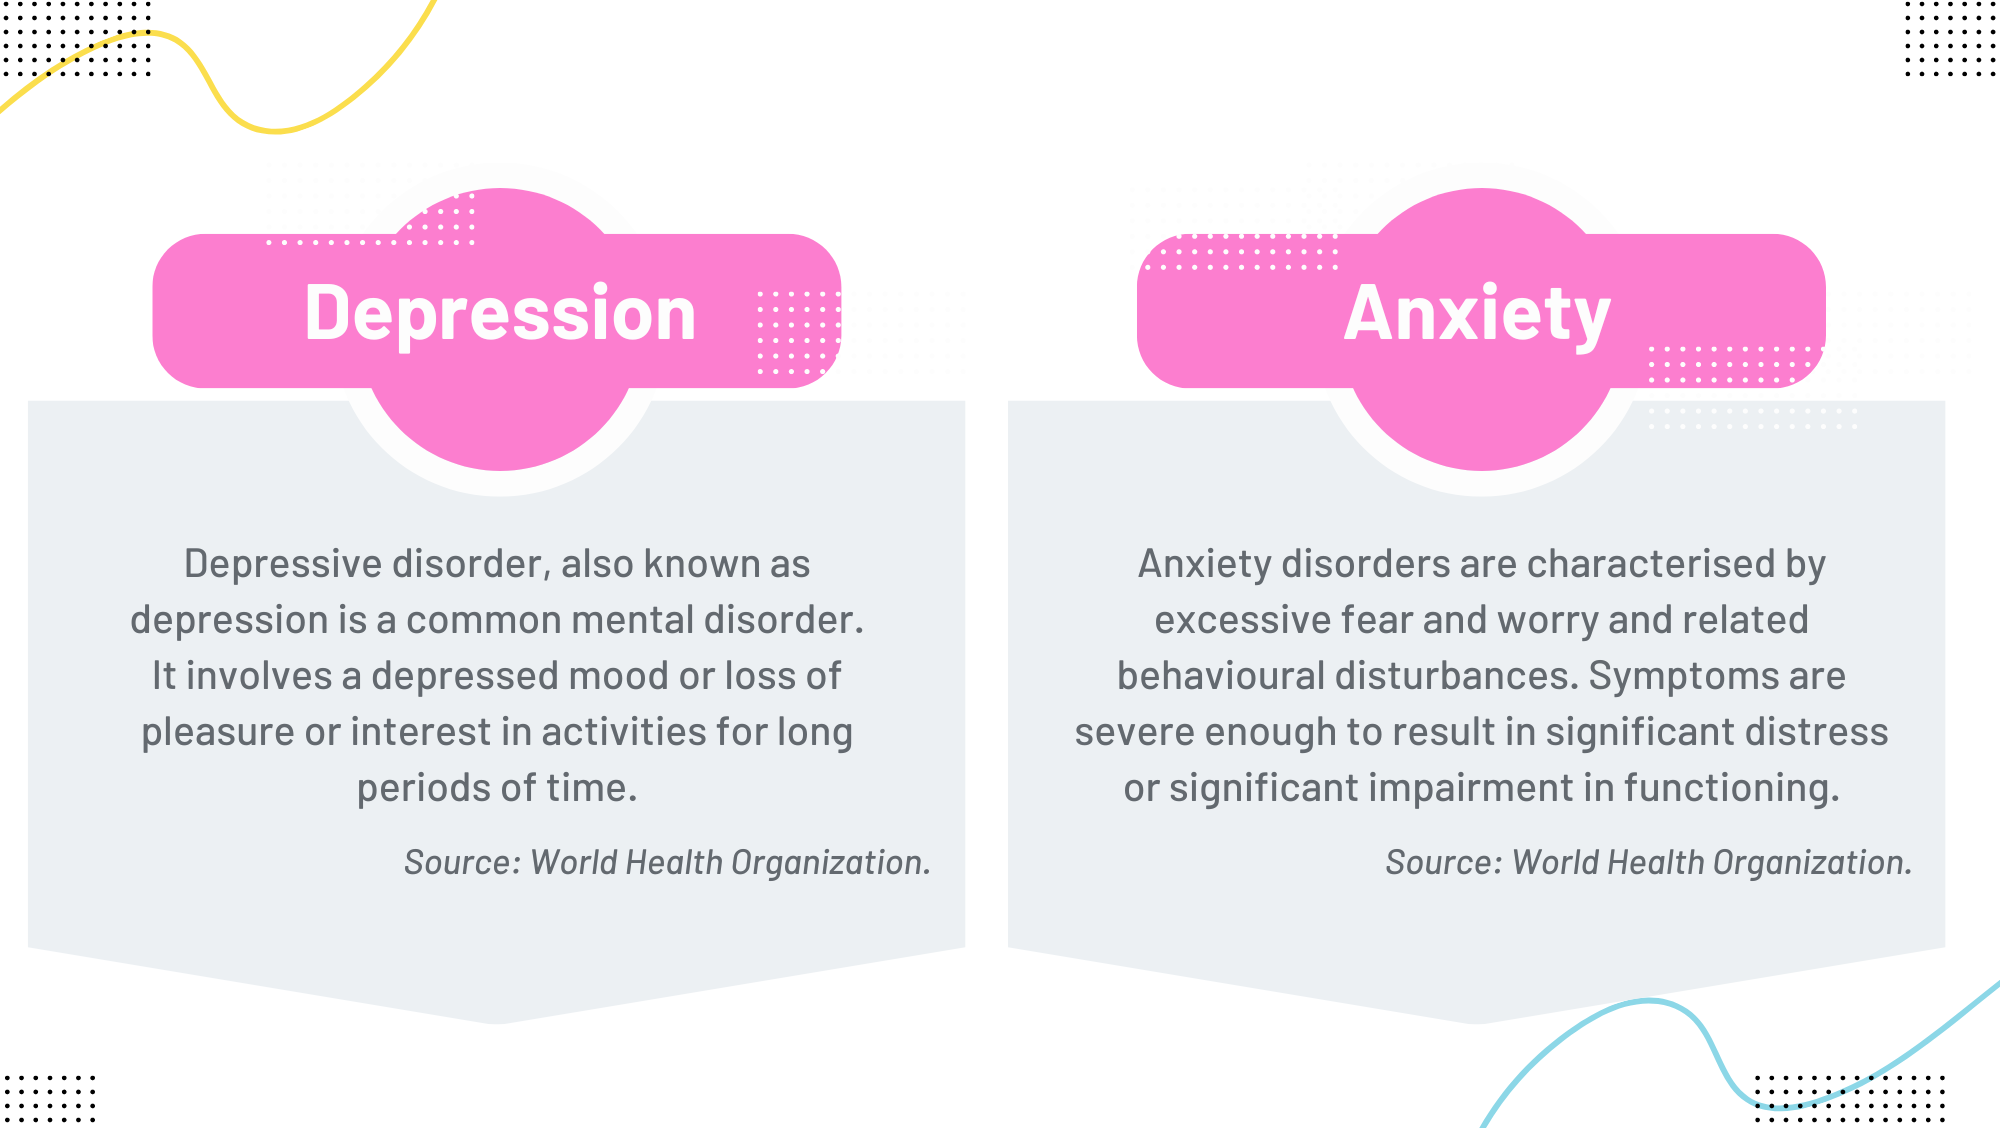
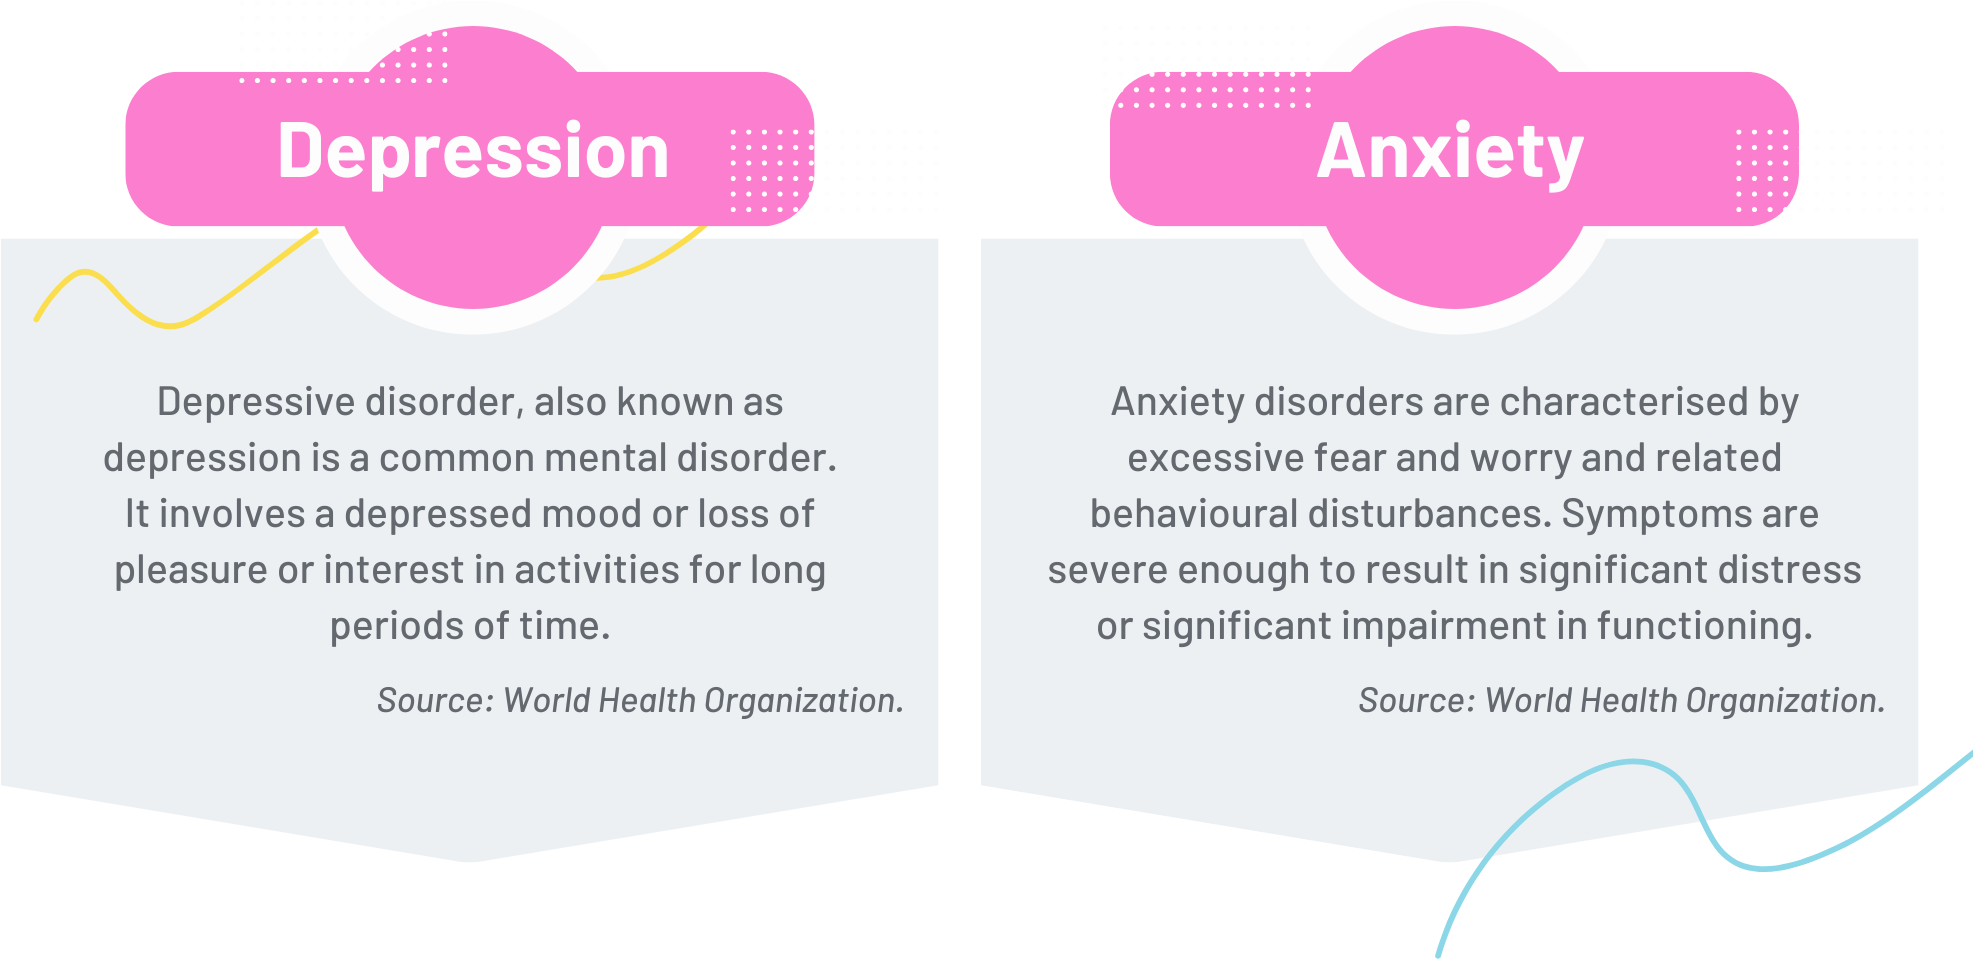
updates to front end graphics

diff --git a/my-front/src/App.jsx b/my-front/src/App.jsx
@@ -20,18 +20,20 @@ function App() {
       <img 
       src="/quiz-title.png" 
       alt="Intro to page" 
-      style={{ width: '60%', height: '60%' }} 
+      style={{ width: '40%', height: '40%' }} 
     />
       {/* <div>
         <h2>{header}</h2>
         <p>{info}</p>
       </div> */}
       
+      <div className="mentalhealthtitleimg">
       <img 
       src="/mental-health-quiz-title.png" 
       alt="Intro to page" 
-      style={{ width: '70%', height: '70%' }} 
-    />
+      style={{ width: '50%', height: '50%' }} 
+    /></div>
+
       {/* <h1>Mental Health Quiz</h1> */}
       <Definition />
       <SymptomsList />

diff --git a/my-front/src/components/Definition.css b/my-front/src/components/Definition.css
@@ -1,28 +1,33 @@
-h3 {
+/* h3 {
   color: rgb(177, 112, 237);
   font-size: x-large;
   text-shadow: 2px 2px 4px rgba(0, 0, 0, 0.5);
-}
+} */
 
-p {
+/* p {
   color: white;
   font-size: large;
   max-width: 60%;
   text-align: center;
-}
+} */
 
-p.inboxdef {
+/* p.inboxdef {
   align-items: center;
   max-width: 900px;
   padding-right: 10px;
   padding-left: 10px;
+} */
+
+.defsimage {
+  padding: 1%;
 }
 
-.Def {
+/* .Def {
   border: 2ch solid #d14ad4;
   margin-left: 20%;
   margin-right: 20%;
   color: white;
   max-width: 60%;
   justify-content: center;
-}
+} */
+

diff --git a/my-front/src/components/SymptomsList.jsx b/my-front/src/components/SymptomsList.jsx
@@ -63,9 +63,17 @@ export default function SymptomsList() {
 
   return (
     <>
-      <h3>
+    <div className="tick-instructions">
+      <img 
+      src="/tick-instructions.png" 
+      alt="Instructions" 
+      style={{ width: '30%', height: '30%' }} 
+    /></div>
+
+      {/* <h3>
       Tick the boxes for symptoms that you've been experiencing for over two weeks.
-      </h3>
+      </h3> */}
+
       <div className="container-col">
       <div className="col">
         <div>

diff --git a/my-front/src/components/Definition.jsx b/my-front/src/components/Definition.jsx
@@ -5,11 +5,11 @@ export default function Definition() {
   return (
     <>
 
-    <img 
+    <div className="defsimage"><img 
       src="/defs.png" 
       alt="Definitions of depression and anxiety" 
-      style={{ width: '60%', height: '60%' }} // Adjust width as needed, 'auto' maintains aspect ratio
-    />
+      style={{ width: '60%', height: '60%' }} 
+    /></div>
     
     {/* <div className="Def">
         <h2>➨ Clinical Depression</h2>

diff --git a/my-front/src/App.css b/my-front/src/App.css
@@ -86,3 +86,8 @@ p {
 a {
   color:blue;
 }
+
+.mentalhealthtitleimg {
+  padding-top: 5%;
+  padding-bottom: 3%;
+}

diff --git a/routes/index.js b/routes/index.js
@@ -7,3 +7,4 @@ router.get("/", function (req, res, next) {
 });
 
 module.exports = router;
+//write one route
